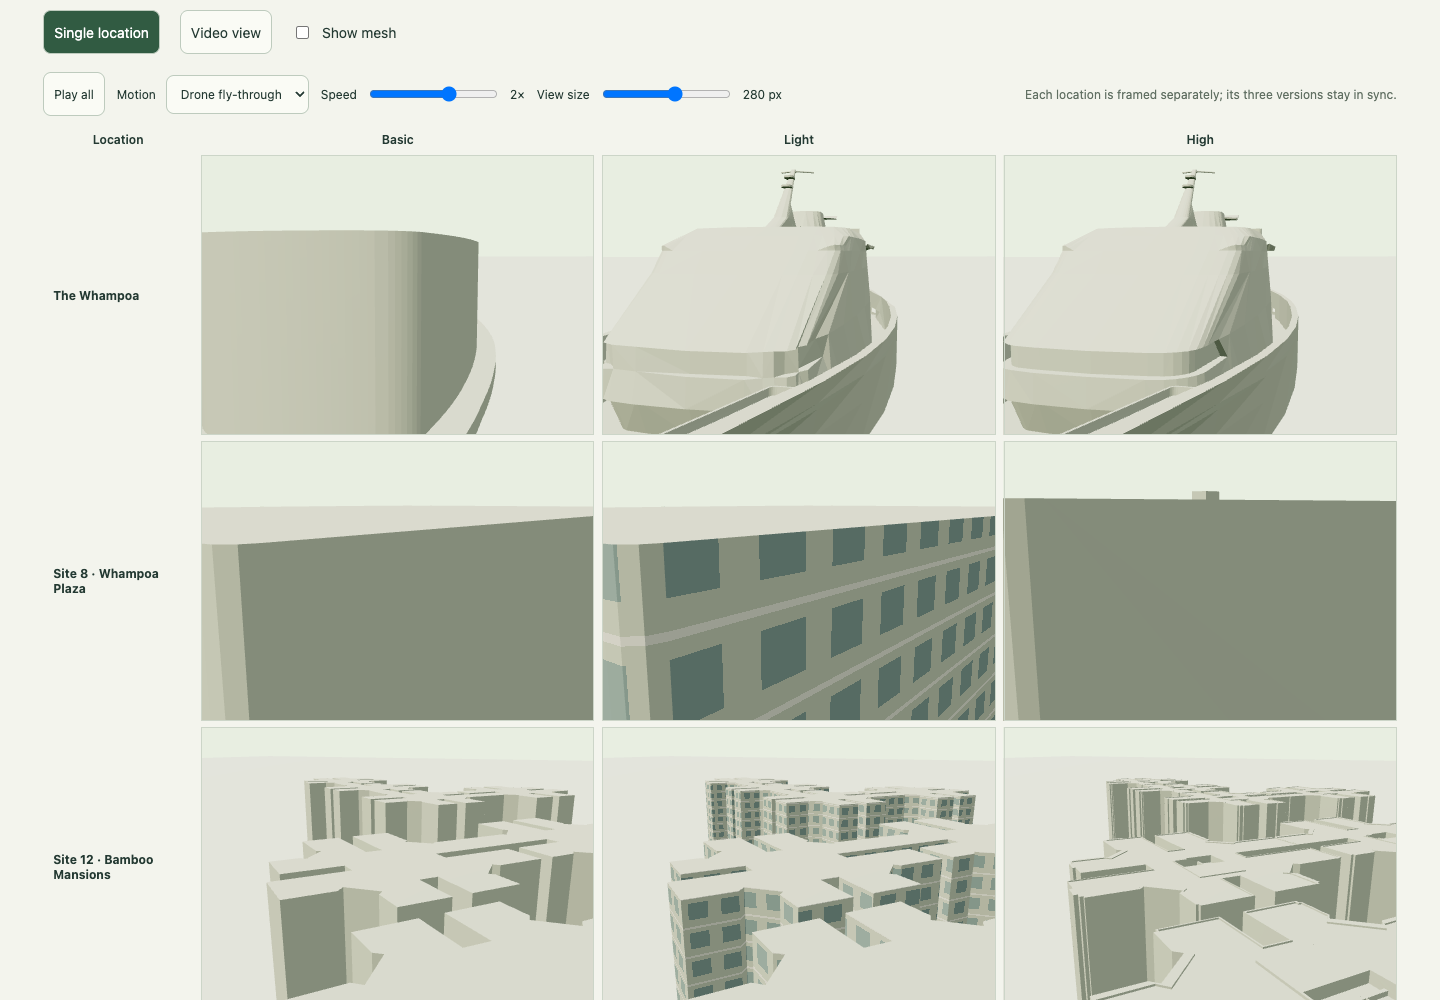
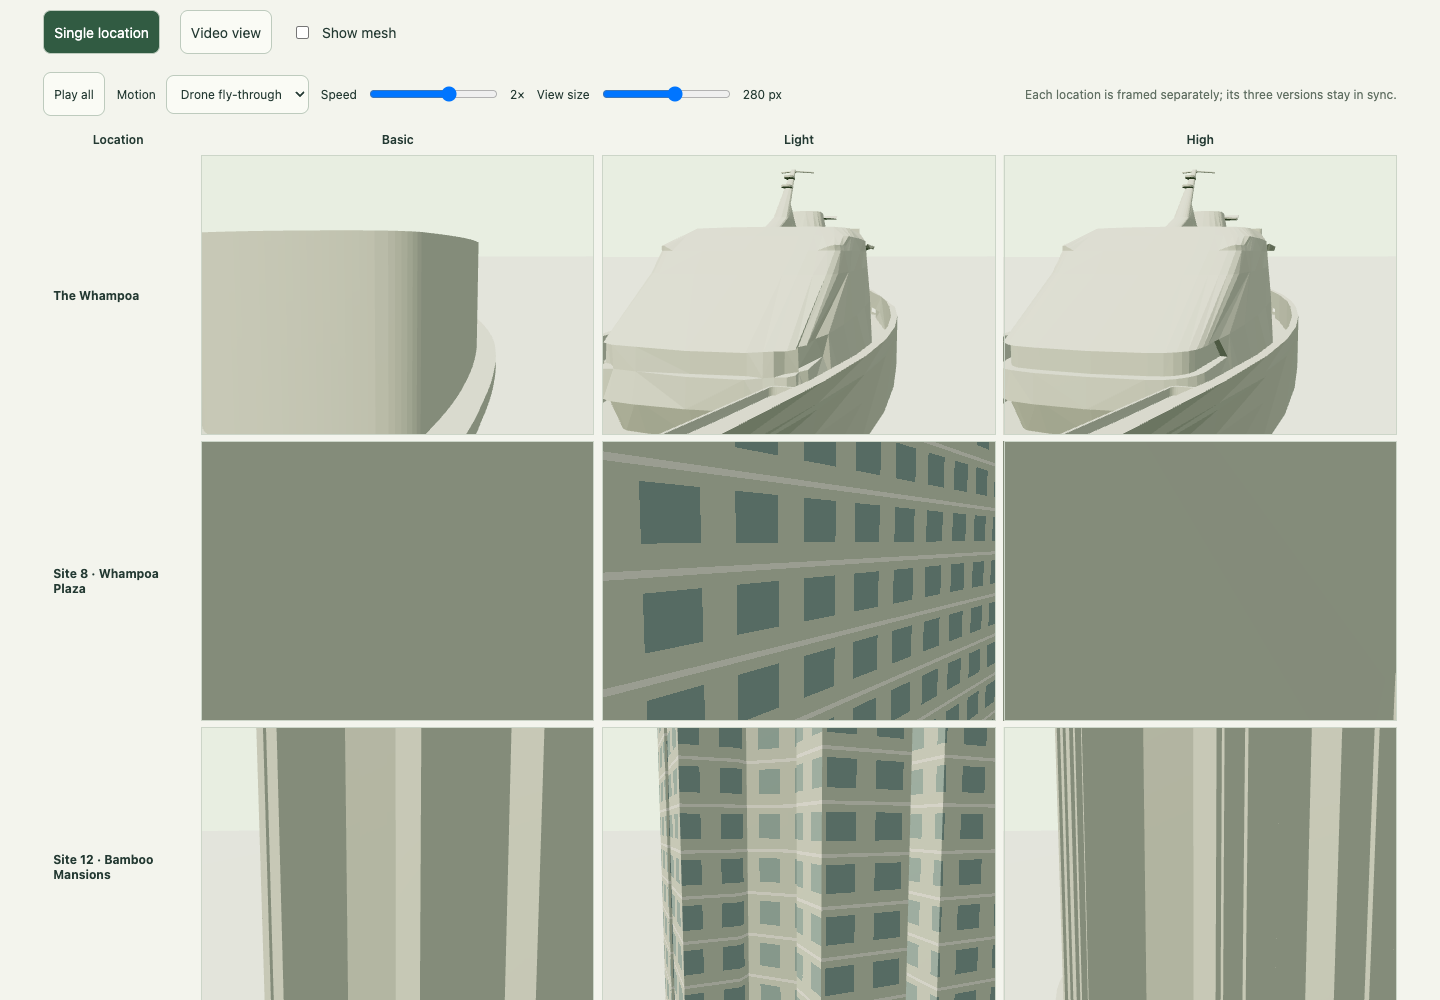
fix: start gallery drone tours from a wide view (HKS-228)

Changed region(s): [[0.125, 0.434, 0.9688, 1.0]]

diff --git a/3d-viewer/whampoa-comparison.html b/3d-viewer/whampoa-comparison.html
@@ -1,7 +1,7 @@
-<!doctype html><html lang="en"><meta charset="utf-8"><meta name="viewport" content="width=device-width,initial-scale=1"><title>Hong Kong · Model study</title><link rel="stylesheet" href="city/whampoa-comparison.css?v=20260910-hover1"><body><header><div><p class="eyebrow">LIVING HONG KONG / MODEL STUDY 01</p><h1>A little detail. A different city.</h1><p>Compare the same place at three levels of detail. Drag any view to orbit all three.</p></div><a href="city.html?district=central">Back to the city ↗</a></header><nav aria-label="Comparison controls"><label>Location <select id="location" aria-label="Location"></select></label><button id="gallery-toggle" aria-pressed="false">Gallery view</button><button id="spin" aria-pressed="false">Start spin</button><button id="presentation" aria-pressed="false">Video view</button><button id="reset">Reset view</button><label class="check"><input type="checkbox" id="wire"> Show mesh</label></nav><section id="load-status" role="status"><span id="load-message">Loading model comparison…</span> <button id="load-retry" hidden>Retry loading</button></section><main id="views"><article><div class="card-title"><span>01 / BASELINE</span><h2>No enhancement</h2><p>Government footprint and recorded height</p></div><div class="viewport" id="basic"></div><p class="stats" id="basic-stats">Loading…</p></article><article class="featured"><div class="card-title"><span>02 / LIGHT TRIAL</span><h2>Lightweight</h2><p id="light-description">Reduced mesh · same source assembly</p></div><div class="viewport" id="light"></div><p class="stats" id="light-stats">Loading…</p></article><article><div class="card-title"><span>03 / DETAIL REFERENCE</span><h2>High detail</h2><p id="high-description">Existing government geometry · reused</p></div><div class="viewport" id="high"></div><p class="stats" id="high-stats">Loading…</p></article></main><section class="notes"><p id="summary" role="status">Preparing comparison…</p><p id="qualification"></p><details><summary>How this comparison is made</summary><p>Identical scale, camera, ground and lighting. These are isolated model studies, not the live neighbourhood. The ship’s light mesh uses a one-metre clustering grid while protecting its upper silhouette. Site façades use an illustrative shared shader, without changing the source footprint or height. No surveyed window, paint or roof-detail accuracy is claimed.</p><p>Sizes are compressed model payloads, excluding shared viewer code. Site façade styling adds shared code, not a separate texture download. The existing high ship is not a new high-effort AI generation. Reviewed Site 8 and Site 12 geometry is also used in the main map. Lightweight variants remain comparison studies. Overview positions are arranged for comparison, not geographic placement.</p><a href="https://www.rvd.gov.hk/doc/en/urban.pdf">Government building-name reference ↗</a></details></section><script type="module">
+<!doctype html><html lang="en"><meta charset="utf-8"><meta name="viewport" content="width=device-width,initial-scale=1"><title>Hong Kong · Model study</title><link rel="stylesheet" href="city/whampoa-comparison.css?v=20260910-approach1"><body><header><div><p class="eyebrow">LIVING HONG KONG / MODEL STUDY 01</p><h1>A little detail. A different city.</h1><p>Compare the same place at three levels of detail. Drag any view to orbit all three.</p></div><a href="city.html?district=central">Back to the city ↗</a></header><nav aria-label="Comparison controls"><label>Location <select id="location" aria-label="Location"></select></label><button id="gallery-toggle" aria-pressed="false">Gallery view</button><button id="spin" aria-pressed="false">Start spin</button><button id="presentation" aria-pressed="false">Video view</button><button id="reset">Reset view</button><label class="check"><input type="checkbox" id="wire"> Show mesh</label></nav><section id="load-status" role="status"><span id="load-message">Loading model comparison…</span> <button id="load-retry" hidden>Retry loading</button></section><main id="views"><article><div class="card-title"><span>01 / BASELINE</span><h2>No enhancement</h2><p>Government footprint and recorded height</p></div><div class="viewport" id="basic"></div><p class="stats" id="basic-stats">Loading…</p></article><article class="featured"><div class="card-title"><span>02 / LIGHT TRIAL</span><h2>Lightweight</h2><p id="light-description">Reduced mesh · same source assembly</p></div><div class="viewport" id="light"></div><p class="stats" id="light-stats">Loading…</p></article><article><div class="card-title"><span>03 / DETAIL REFERENCE</span><h2>High detail</h2><p id="high-description">Existing government geometry · reused</p></div><div class="viewport" id="high"></div><p class="stats" id="high-stats">Loading…</p></article></main><section class="notes"><p id="summary" role="status">Preparing comparison…</p><p id="qualification"></p><details><summary>How this comparison is made</summary><p>Identical scale, camera, ground and lighting. These are isolated model studies, not the live neighbourhood. The ship’s light mesh uses a one-metre clustering grid while protecting its upper silhouette. Site façades use an illustrative shared shader, without changing the source footprint or height. No surveyed window, paint or roof-detail accuracy is claimed.</p><p>Sizes are compressed model payloads, excluding shared viewer code. Site façade styling adds shared code, not a separate texture download. The existing high ship is not a new high-effort AI generation. Reviewed Site 8 and Site 12 geometry is also used in the main map. Lightweight variants remain comparison studies. Overview positions are arranged for comparison, not geographic placement.</p><a href="https://www.rvd.gov.hk/doc/en/urban.pdf">Government building-name reference ↗</a></details></section><script type="module">
 const status=document.getElementById('load-status'),message=document.getElementById('load-message'),retry=document.getElementById('load-retry');
 window.comparisonLoadStatus=(text,failed=false)=>{status.hidden=false;message.textContent=text;retry.hidden=!failed;status.setAttribute('role',failed?'alert':'status');};
 retry.onclick=()=>{const url=new URL(location.href);url.searchParams.set('reload',Date.now());location.replace(url);};
-try{await import('./city/whampoa-comparison.js?v=20260910-hover1');if(!window.__trial.loadErrors.length)status.hidden=true;}
+try{await import('./city/whampoa-comparison.js?v=20260910-approach1');if(!window.__trial.loadErrors.length)status.hidden=true;}
 catch(error){console.error('Comparison startup failed:',error);window.comparisonLoadStatus('Unable to load comparison: '+error.message,true);}
 </script></body></html>

diff --git a/3d-viewer/city/comparison-gallery.js b/3d-viewer/city/comparison-gallery.js
@@ -34,10 +34,11 @@ export function createComparisonGallery(groups, assemble) {
   if(motion==='fly'){
    // A continuous 32-second drone approach, close facade rise, roof pass and reveal.
    // Close shots deliberately crop the model; only the reveal fits the full assembly.
-   // Phase offsets give each location its own flight; all variants share the camera.
-   const keys=[[-1.15,.18,.78,.2],[-.3,.08,.32,.32],[.65,.32,.36,.78],[2.1,1.3,.45,.84],[4.25,.5,1.35,.45],[Math.PI*2-1.15,.18,.78,.2]];
-   const phase=((elapsed/32+row.phase/7)%1)*5,index=Math.floor(phase),u=phase-index,t=u*u*(3-2*u),a=keys[index],b=keys[index+1],mix=k=>a[k]+(b[k]-a[k])*t;
-   theta=mix(0);tilt=mix(1);zoom=mix(2);target.y=row.bounds.min.y+size.y*mix(3);shot=['Approach','Facade rise','Rooftop pass','Wide reveal','Return'][index];
+   // Every location starts wide together; angular offsets vary the approach direction.
+   // All three variants share the same camera throughout the tour.
+   const keys=[[-1.15,.5,1.6,.5],[-.3,.08,.32,.32],[.65,.32,.36,.78],[2.1,1.3,.45,.84],[4.25,.5,1.35,.45],[Math.PI*2-1.15,.5,1.6,.5]];
+   const phase=((elapsed/32)%1)*5,index=Math.floor(phase),u=phase-index,t=u*u*(3-2*u),a=keys[index],b=keys[index+1],mix=k=>a[k]+(b[k]-a[k])*t;
+   theta=mix(0)+row.phase;tilt=mix(1);zoom=mix(2);target.y=row.bounds.min.y+size.y*mix(3);shot=['Approach','Facade rise','Rooftop pass','Wide reveal','Return'][index];
   }
   const direction=new T.Vector3(Math.sin(theta),tilt,Math.cos(theta)).normalize(),right=new T.Vector3().crossVectors(new T.Vector3(0,1,0),direction).normalize(),up=new T.Vector3().crossVectors(direction,right),tanV=Math.tan(Math.PI/10),tanH=tanV*camera.aspect;let distance=10;
   for(const x of [row.bounds.min.x,row.bounds.max.x])for(const y of [row.bounds.min.y,row.bounds.max.y])for(const z of [row.bounds.min.z,row.bounds.max.z]){const p=new T.Vector3(x,y,z).sub(target),depth=p.dot(direction);distance=Math.max(distance,depth+Math.abs(p.dot(right))*1.15/tanH,depth+Math.abs(p.dot(up))*1.15/tanV);}
@@ -61,7 +62,7 @@ export function createComparisonGallery(groups, assemble) {
   window.__gallery={active,playing,speed,motion,drawn,locations:rows.map(r=>({id:r.id,camera:r.camera.position.toArray(),target:r.cells[0].controls.target.toArray(),variants:3,shot:r.shot})),rendererCount:1};
  }
  function frame(now){if(active){if(playing&&last){const dt=Math.min((now-last)/1000,.1)*speed;elapsed+=dt;for(const row of rows){row.angle+=dt*.18;fit(row);}dirty=true;}if(dirty||now<hoverUntil){render();dirty=false;}}last=now;requestAnimationFrame(frame);}requestAnimationFrame(frame);
- play.onclick=()=>{setPlaying(!playing);dirty=true;};host.querySelector('#gallery-motion').onchange=e=>{motion=e.target.value;for(const row of rows)fit(row);dirty=true;};
+ play.onclick=()=>{setPlaying(!playing);dirty=true;};host.querySelector('#gallery-motion').onchange=e=>{motion=e.target.value;elapsed=0;for(const row of rows)fit(row);dirty=true;};
  host.querySelector('#gallery-speed').oninput=e=>{speed=Number(e.target.value);host.querySelector('#gallery-speed-value').textContent=speed+'×';dirty=true;};
  const sizeInput=host.querySelector('#gallery-size');
  const initialSize=innerWidth<=700?150:Math.max(90,Math.min(150,Math.floor((innerHeight-220)/7/10)*10));

diff --git a/3d-viewer/city/whampoa-comparison.js b/3d-viewer/city/whampoa-comparison.js
@@ -1,4 +1,4 @@
-import {createComparisonGallery} from './comparison-gallery.js?v=20260910-hover1';
+import {createComparisonGallery} from './comparison-gallery.js?v=20260910-approach1';
 import * as T from '../vendor/three.module.js';
 import {OrbitControls} from '../vendor/OrbitControls.js';
 import {GLTFLoader} from '../vendor/GLTFLoader.js';

diff --git a/docs/astra-city/LINEAR-TRACKING.md b/docs/astra-city/LINEAR-TRACKING.md
@@ -352,3 +352,7 @@ Fresh browser checks initially passed; the user's exact browser failure was not 
 ## 10 September 2026 — HKS-228 hover inspection and drone close-ups
 
 Gallery cells enlarge16%on mouse hover, restore smoothly on leave and redraw while paused without allocating another renderer. Touch remains unchanged; reduced-motion removes the transition. Play all defaults to Drone fly-through: close facade passes deliberately crop the model, rise towards roofs and blend back to a wide reveal. Camera paths stay synchronised across each location's three variants; analytic bounding-box clearance avoids stepping through buildings. Orbit and speed controls remain available. Browser checks cover hover/restore, paused redraw, touch, desktop/mobile flight, pause and repeated gallery exit; screenshots under comparison-gallery/fixes inspected. No model assets or Neon state changed. Ready for William's visual review.
+
+## 10 September 2026 — HKS-228 wide drone opening
+
+Every location now begins its drone cycle with a full-assembly wide view, then approaches the close facade pass over the first6.4seconds at1×speed. Removed timing offsets that previously started later rows midway through the flight; angular offsets still vary approach directions. The32-second loop returns to the same wide pose. Selecting Drone restarts from afar; pause/resume retains position. Desktop/mobile checks confirm every opening camera is over1.5times farther from its target than the first close shot, identical loop endpoints, and existing gallery controls/exit tests pass. No model/Neon changes. Ready for William's review.
